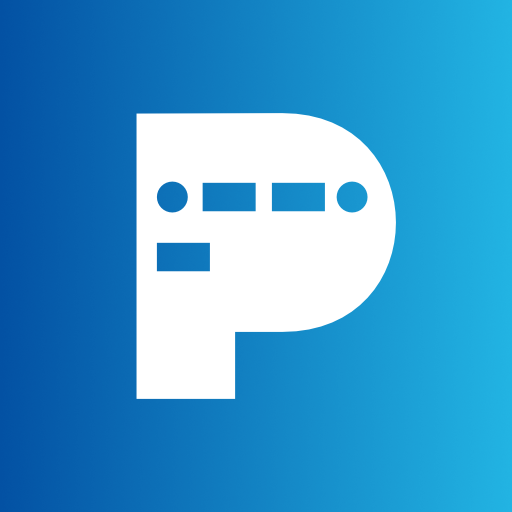
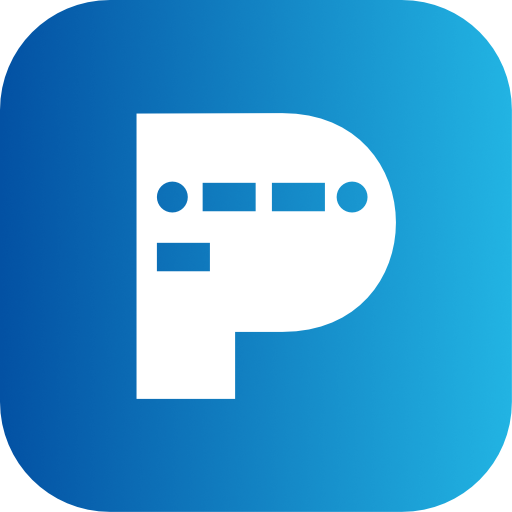
Deploy kfarnung/puzztool to github.com/kfarnung/puzztool.git:gh-pages

diff --git a/index.html b/index.html
@@ -1,1 +1,1 @@
-<!doctype html><html lang="en"><head><meta charset="utf-8"/><meta name="viewport" content="width=device-width,initial-scale=1,maximum-scale=1,viewport-fit=cover,user-scalable=no,shrink-to-fit=no"/><meta name="theme-color" content="#000000"/><meta name="keywords" content="puzzle, solver, puzztool, puzz, tool, cipher, braille, semaphore"/><meta name="description" content="PuzzTool helps solve encodings and ciphers used in puzzle competitions such as Puzzle Hunt, Puzzled Pint, and others"/><meta name="robots" content="index, follow"/><link rel="manifest" href="/puzztool/manifest.json"/><link rel="shortcut icon" href="/puzztool/icons-64.png"/><link rel="apple-touch-icon" href="/puzztool/icons-192.png"/><title>PuzzTool</title><link href="/puzztool/static/css/main.136ca013.chunk.css" rel="stylesheet"></head><body><noscript>You need to enable JavaScript to run this app.</noscript><div id="root"></div><script>!function(e){function t(t){for(var n,o,u=t[0],i=t[1],f=t[2],l=0,d=[];l<u.length;l++)o=u[l],Object.prototype.hasOwnProperty.call(a,o)&&a[o]&&d.push(a[o][0]),a[o]=0;for(n in i)Object.prototype.hasOwnProperty.call(i,n)&&(e[n]=i[n]);for(s&&s(t);d.length;)d.shift()();return c.push.apply(c,f||[]),r()}function r(){for(var e,t=0;t<c.length;t++){for(var r=c[t],n=!0,o=1;o<r.length;o++){var i=r[o];0!==a[i]&&(n=!1)}n&&(c.splice(t--,1),e=u(u.s=r[0]))}return e}var n={},o={2:0},a={2:0},c=[];function u(t){if(n[t])return n[t].exports;var r=n[t]={i:t,l:!1,exports:{}};return e[t].call(r.exports,r,r.exports,u),r.l=!0,r.exports}u.e=function(e){var t=[];o[e]?t.push(o[e]):0!==o[e]&&{4:1,5:1,6:1,7:1,8:1,9:1,10:1,11:1,12:1,13:1,14:1,15:1,16:1,17:1,18:1}[e]&&t.push(o[e]=new Promise((function(t,r){for(var n="static/css/"+({}[e]||e)+"."+{0:"31d6cfe0",4:"b7110742",5:"d4a04866",6:"52e0cb4e",7:"79ba6fbf",8:"453f3aaa",9:"2ddd237a",10:"e3ed52be",11:"35b614db",12:"c143d694",13:"f80a6a42",14:"8d730be1",15:"f2a44c1d",16:"27875f63",17:"1819218c",18:"44a16c87"}[e]+".chunk.css",a=u.p+n,c=document.getElementsByTagName("link"),i=0;i<c.length;i++){var f=(s=c[i]).getAttribute("data-href")||s.getAttribute("href");if("stylesheet"===s.rel&&(f===n||f===a))return t()}var l=document.getElementsByTagName("style");for(i=0;i<l.length;i++){var s;if((f=(s=l[i]).getAttribute("data-href"))===n||f===a)return t()}var d=document.createElement("link");d.rel="stylesheet",d.type="text/css",d.onload=t,d.onerror=function(t){var n=t&&t.target&&t.target.src||a,c=new Error("Loading CSS chunk "+e+" failed.\n("+n+")");c.code="CSS_CHUNK_LOAD_FAILED",c.request=n,delete o[e],d.parentNode.removeChild(d),r(c)},d.href=a,document.getElementsByTagName("head")[0].appendChild(d)})).then((function(){o[e]=0})));var r=a[e];if(0!==r)if(r)t.push(r[2]);else{var n=new Promise((function(t,n){r=a[e]=[t,n]}));t.push(r[2]=n);var c,i=document.createElement("script");i.charset="utf-8",i.timeout=120,u.nc&&i.setAttribute("nonce",u.nc),i.src=function(e){return u.p+"static/js/"+({}[e]||e)+"."+{0:"c9cf57a6",4:"4c48c2ce",5:"1ea2c2ad",6:"b184c15d",7:"cbca3e3a",8:"f36e0764",9:"48b9f7a6",10:"27e8b0a2",11:"aeaf76ab",12:"14fb44ce",13:"235df561",14:"ea2b1a41",15:"d52becd0",16:"b3fe536f",17:"ede09a75",18:"1645f62a"}[e]+".chunk.js"}(e);var f=new Error;c=function(t){i.onerror=i.onload=null,clearTimeout(l);var r=a[e];if(0!==r){if(r){var n=t&&("load"===t.type?"missing":t.type),o=t&&t.target&&t.target.src;f.message="Loading chunk "+e+" failed.\n("+n+": "+o+")",f.name="ChunkLoadError",f.type=n,f.request=o,r[1](f)}a[e]=void 0}};var l=setTimeout((function(){c({type:"timeout",target:i})}),12e4);i.onerror=i.onload=c,document.head.appendChild(i)}return Promise.all(t)},u.m=e,u.c=n,u.d=function(e,t,r){u.o(e,t)||Object.defineProperty(e,t,{enumerable:!0,get:r})},u.r=function(e){"undefined"!=typeof Symbol&&Symbol.toStringTag&&Object.defineProperty(e,Symbol.toStringTag,{value:"Module"}),Object.defineProperty(e,"__esModule",{value:!0})},u.t=function(e,t){if(1&t&&(e=u(e)),8&t)return e;if(4&t&&"object"==typeof e&&e&&e.__esModule)return e;var r=Object.create(null);if(u.r(r),Object.defineProperty(r,"default",{enumerable:!0,value:e}),2&t&&"string"!=typeof e)for(var n in e)u.d(r,n,function(t){return e[t]}.bind(null,n));return r},u.n=function(e){var t=e&&e.__esModule?function(){return e.default}:function(){return e};return u.d(t,"a",t),t},u.o=function(e,t){return Object.prototype.hasOwnProperty.call(e,t)},u.p="/puzztool/",u.oe=function(e){throw console.error(e),e};var i=this.webpackJsonppuzztool=this.webpackJsonppuzztool||[],f=i.push.bind(i);i.push=t,i=i.slice();for(var l=0;l<i.length;l++)t(i[l]);var s=f;r()}([])</script><script src="/puzztool/static/js/3.87574402.chunk.js"></script><script src="/puzztool/static/js/main.aacd3caf.chunk.js"></script></body></html>
+<!doctype html><html lang="en"><head><meta charset="utf-8"/><meta name="viewport" content="width=device-width,initial-scale=1,maximum-scale=1,viewport-fit=cover,user-scalable=no,shrink-to-fit=no"/><meta name="theme-color" content="#000000"/><meta name="keywords" content="puzzle, solver, puzztool, puzz, tool, cipher, braille, semaphore"/><meta name="description" content="PuzzTool helps solve encodings and ciphers used in puzzle competitions such as Puzzle Hunt, Puzzled Pint, and others"/><meta name="robots" content="index, follow"/><link rel="manifest" href="/puzztool/manifest.json"/><link rel="shortcut icon" href="/puzztool/icons-64.png"/><link rel="apple-touch-icon" href="/puzztool/icons-192-apple.png"/><title>PuzzTool</title><link href="/puzztool/static/css/main.136ca013.chunk.css" rel="stylesheet"></head><body><noscript>You need to enable JavaScript to run this app.</noscript><div id="root"></div><script>!function(e){function t(t){for(var n,o,u=t[0],i=t[1],f=t[2],l=0,d=[];l<u.length;l++)o=u[l],Object.prototype.hasOwnProperty.call(a,o)&&a[o]&&d.push(a[o][0]),a[o]=0;for(n in i)Object.prototype.hasOwnProperty.call(i,n)&&(e[n]=i[n]);for(s&&s(t);d.length;)d.shift()();return c.push.apply(c,f||[]),r()}function r(){for(var e,t=0;t<c.length;t++){for(var r=c[t],n=!0,o=1;o<r.length;o++){var i=r[o];0!==a[i]&&(n=!1)}n&&(c.splice(t--,1),e=u(u.s=r[0]))}return e}var n={},o={2:0},a={2:0},c=[];function u(t){if(n[t])return n[t].exports;var r=n[t]={i:t,l:!1,exports:{}};return e[t].call(r.exports,r,r.exports,u),r.l=!0,r.exports}u.e=function(e){var t=[];o[e]?t.push(o[e]):0!==o[e]&&{4:1,5:1,6:1,7:1,8:1,9:1,10:1,11:1,12:1,13:1,14:1,15:1,16:1,17:1,18:1}[e]&&t.push(o[e]=new Promise((function(t,r){for(var n="static/css/"+({}[e]||e)+"."+{0:"31d6cfe0",4:"b7110742",5:"d4a04866",6:"52e0cb4e",7:"79ba6fbf",8:"453f3aaa",9:"2ddd237a",10:"e3ed52be",11:"35b614db",12:"c143d694",13:"f80a6a42",14:"8d730be1",15:"f2a44c1d",16:"27875f63",17:"1819218c",18:"44a16c87"}[e]+".chunk.css",a=u.p+n,c=document.getElementsByTagName("link"),i=0;i<c.length;i++){var f=(s=c[i]).getAttribute("data-href")||s.getAttribute("href");if("stylesheet"===s.rel&&(f===n||f===a))return t()}var l=document.getElementsByTagName("style");for(i=0;i<l.length;i++){var s;if((f=(s=l[i]).getAttribute("data-href"))===n||f===a)return t()}var d=document.createElement("link");d.rel="stylesheet",d.type="text/css",d.onload=t,d.onerror=function(t){var n=t&&t.target&&t.target.src||a,c=new Error("Loading CSS chunk "+e+" failed.\n("+n+")");c.code="CSS_CHUNK_LOAD_FAILED",c.request=n,delete o[e],d.parentNode.removeChild(d),r(c)},d.href=a,document.getElementsByTagName("head")[0].appendChild(d)})).then((function(){o[e]=0})));var r=a[e];if(0!==r)if(r)t.push(r[2]);else{var n=new Promise((function(t,n){r=a[e]=[t,n]}));t.push(r[2]=n);var c,i=document.createElement("script");i.charset="utf-8",i.timeout=120,u.nc&&i.setAttribute("nonce",u.nc),i.src=function(e){return u.p+"static/js/"+({}[e]||e)+"."+{0:"c9cf57a6",4:"4c48c2ce",5:"1ea2c2ad",6:"b184c15d",7:"cbca3e3a",8:"f36e0764",9:"48b9f7a6",10:"27e8b0a2",11:"aeaf76ab",12:"14fb44ce",13:"235df561",14:"ea2b1a41",15:"d52becd0",16:"b3fe536f",17:"ede09a75",18:"1645f62a"}[e]+".chunk.js"}(e);var f=new Error;c=function(t){i.onerror=i.onload=null,clearTimeout(l);var r=a[e];if(0!==r){if(r){var n=t&&("load"===t.type?"missing":t.type),o=t&&t.target&&t.target.src;f.message="Loading chunk "+e+" failed.\n("+n+": "+o+")",f.name="ChunkLoadError",f.type=n,f.request=o,r[1](f)}a[e]=void 0}};var l=setTimeout((function(){c({type:"timeout",target:i})}),12e4);i.onerror=i.onload=c,document.head.appendChild(i)}return Promise.all(t)},u.m=e,u.c=n,u.d=function(e,t,r){u.o(e,t)||Object.defineProperty(e,t,{enumerable:!0,get:r})},u.r=function(e){"undefined"!=typeof Symbol&&Symbol.toStringTag&&Object.defineProperty(e,Symbol.toStringTag,{value:"Module"}),Object.defineProperty(e,"__esModule",{value:!0})},u.t=function(e,t){if(1&t&&(e=u(e)),8&t)return e;if(4&t&&"object"==typeof e&&e&&e.__esModule)return e;var r=Object.create(null);if(u.r(r),Object.defineProperty(r,"default",{enumerable:!0,value:e}),2&t&&"string"!=typeof e)for(var n in e)u.d(r,n,function(t){return e[t]}.bind(null,n));return r},u.n=function(e){var t=e&&e.__esModule?function(){return e.default}:function(){return e};return u.d(t,"a",t),t},u.o=function(e,t){return Object.prototype.hasOwnProperty.call(e,t)},u.p="/puzztool/",u.oe=function(e){throw console.error(e),e};var i=this.webpackJsonppuzztool=this.webpackJsonppuzztool||[],f=i.push.bind(i);i.push=t,i=i.slice();for(var l=0;l<i.length;l++)t(i[l]);var s=f;r()}([])</script><script src="/puzztool/static/js/3.87574402.chunk.js"></script><script src="/puzztool/static/js/main.aacd3caf.chunk.js"></script></body></html>

diff --git a/service-worker.js b/service-worker.js
@@ -14,7 +14,7 @@
 importScripts("https://storage.googleapis.com/workbox-cdn/releases/4.3.1/workbox-sw.js");
 
 importScripts(
-  "/puzztool/precache-manifest.2734aa1ed2a3e14e63c12a9e3453da56.js"
+  "/puzztool/precache-manifest.ef4e793c2db3e32dcdf410bde7202d8f.js"
 );
 
 self.addEventListener('message', (event) => {

diff --git a/precache-manifest.ef4e793c2db3e32dcdf410bde7202d8f.js b/precache-manifest.ef4e793c2db3e32dcdf410bde7202d8f.js
@@ -1,6 +1,6 @@
 self.__precacheManifest = (self.__precacheManifest || []).concat([
   {
-    "revision": "b6c76c833da4827416e1ef2120324db3",
+    "revision": "f2830b575045a6e70615658796c4f345",
     "url": "/puzztool/index.html"
   },
   {
